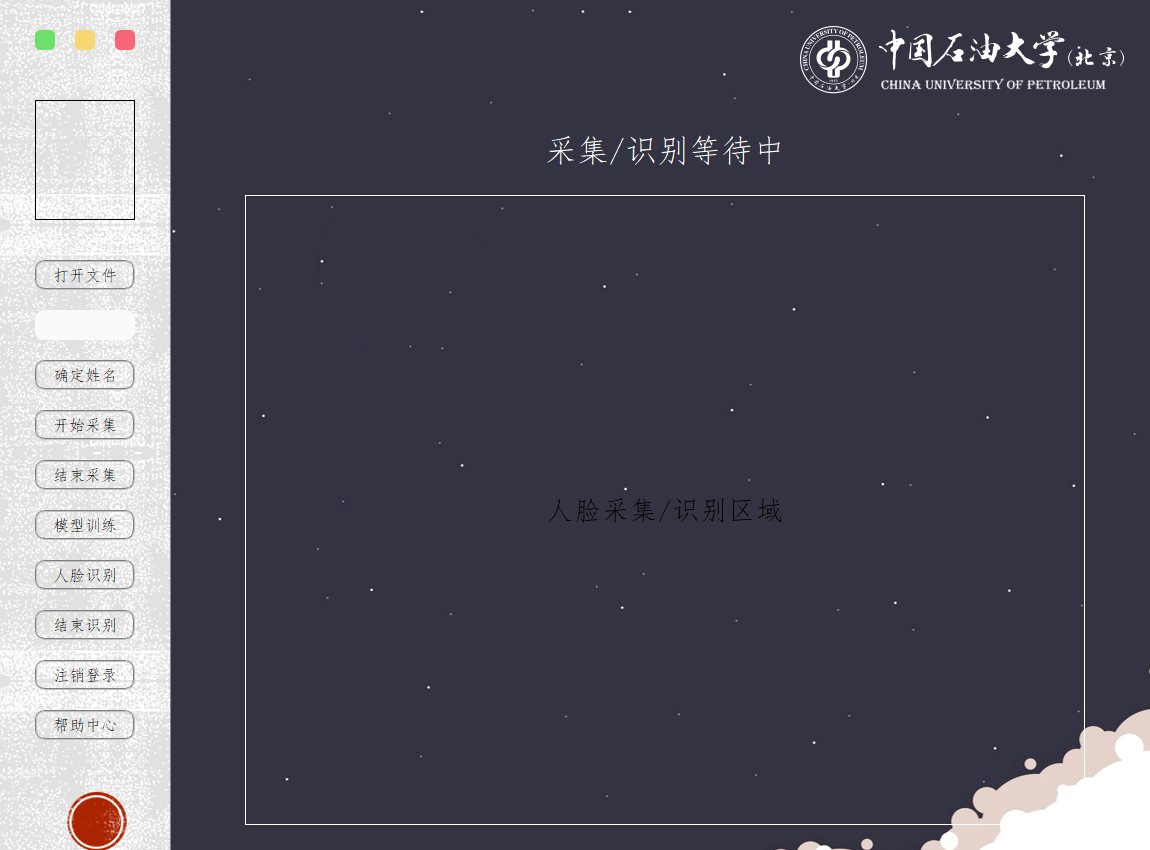
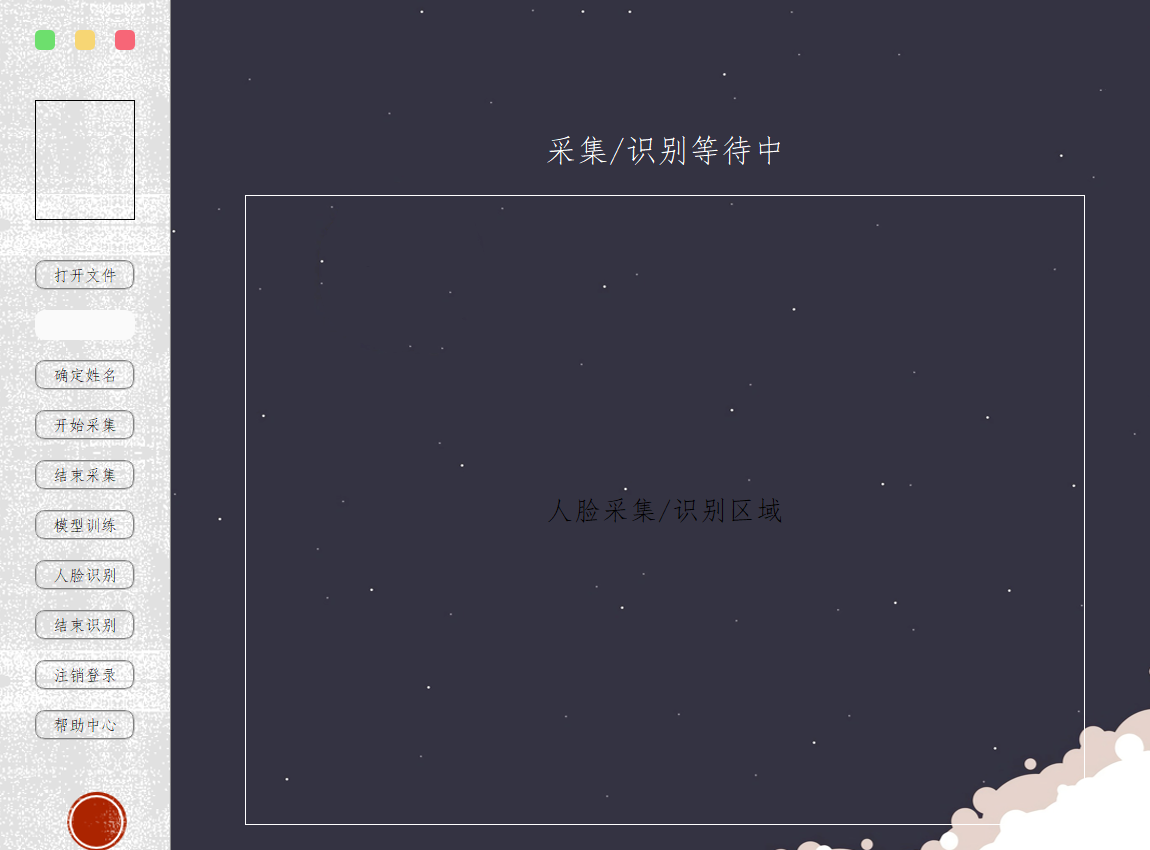
去除学校logo

Changed region(s): [[0.7, 0.0306, 0.9739, 0.1224]]

diff --git a/help_ui.py b/help_ui.py
@@ -48,11 +48,6 @@ class Ui_help_hh(object):
         self.min_.setFont(font)
         self.min_.setObjectName("min_")
 
-        # 加logo
-        self.logo = QtWidgets.QLabel(self.centralwidget)
-        self.logo.setGeometry(QtCore.QRect(800, 20, 451, 81))
-        self.logo.setObjectName("logo")
-
         self.bgcolor = QtWidgets.QLabel(self.centralwidget)
         self.bgcolor.setGeometry(QtCore.QRect(0, 0, 1150, 850))
         self.bgcolor.setText("")
@@ -70,8 +65,6 @@ class Ui_help_hh(object):
         self.max_.raise_()
         self.min_.raise_()
 
-        self.logo.raise_()
-
         help_hh.setCentralWidget(self.centralwidget)
 
         self.retranslateUi(help_hh)
@@ -80,8 +73,6 @@ class Ui_help_hh(object):
     def retranslateUi(self, help_hh):
         _translate = QtCore.QCoreApplication.translate
         help_hh.setWindowTitle(_translate("help_hh", "帮助"))
-        pixmap = QtGui.QPixmap("./img/logo.png")
-        self.logo.setPixmap(pixmap)
         self.help.setText(_translate("help_hh", "人脸识别界面\n\n"
                                                 "1.打开文件：请先打开用户文件夹：user_info\n"
                                                 "2.确定姓名：生成对应学号的人脸存储文件夹\n"

diff --git a/login_ui.py b/login_ui.py
@@ -32,11 +32,6 @@ class Ui_login(object):
         self.exit.setFont(font)
         self.exit.setObjectName("exit")
 
-        # 加logo
-        self.logo = QtWidgets.QLabel(self.centralwidget)
-        self.logo.setGeometry(QtCore.QRect(800, 20, 451, 81))
-        self.logo.setObjectName("logo")
-
         self.face = QtWidgets.QPushButton(self.centralwidget)
         self.face.setGeometry(QtCore.QRect(790, 550, 100, 30))
         font = QtGui.QFont()
@@ -179,7 +174,6 @@ class Ui_login(object):
         self.close_3.raise_()
         self.max_.raise_()
         self.min_.raise_()
-        self.logo.raise_()
 
         login.setCentralWidget(self.centralwidget)
         self.retranslateUi(login)
@@ -192,8 +186,6 @@ class Ui_login(object):
         self.exit.setText(_translate("login", "退出"))
         self.face.setText(_translate("login", "人脸登录"))
         self.label.setText(_translate("login", "人脸识别系统登录"))
-        pixmap = QtGui.QPixmap("./img/logo.png")
-        self.logo.setPixmap(pixmap)
         self.label_2.setText(_translate("login", "账号："))
         self.label_3.setText(_translate("login", "密码："))
         self.label_4.setText(_translate("login", "注册账号"))

diff --git a/main_ui.py b/main_ui.py
@@ -177,11 +177,6 @@ class Ui_MainWindow(object):
         self.bgcolor.setText("")
         self.bgcolor.setObjectName("bgcolor")
 
-        # 加logo
-        self.logo = QtWidgets.QLabel(self.centralwidget)
-        self.logo.setGeometry(QtCore.QRect(800, 20, 451, 81))
-        self.logo.setObjectName("logo")
-
         self.countdown = QtWidgets.QLabel(self.centralwidget)
         self.countdown.setGeometry(QtCore.QRect(480, 120, 370, 60))
         font = QtGui.QFont()
@@ -194,7 +189,6 @@ class Ui_MainWindow(object):
         self.countdown.setObjectName("countdown")
 
         self.bgcolor.raise_()
-        self.logo.raise_()
         self.boder.raise_()
         self.open.raise_()
         self.close_.raise_()
@@ -221,8 +215,6 @@ class Ui_MainWindow(object):
         _translate = QtCore.QCoreApplication.translate
 
         MainWindow.setWindowTitle(_translate("MainWindow", "人脸识别系统"))
-        pixmap = QtGui.QPixmap("./img/logo.png")
-        self.logo.setPixmap(pixmap)
         self.open.setText(_translate("MainWindow", "开始采集"))
         self.close_.setText(_translate("MainWindow", "结束采集"))
         self.dete.setText(_translate("MainWindow", "确定姓名"))
